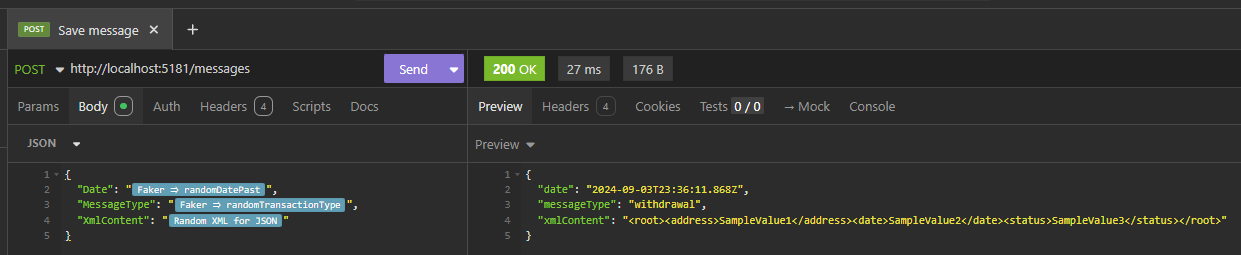
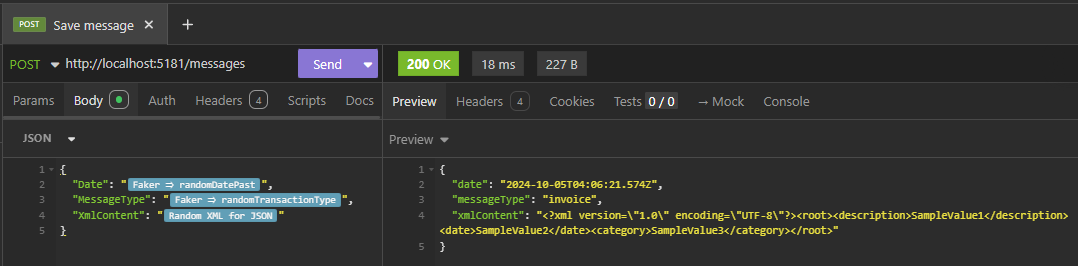
new img

diff --git a/main.js b/main.js
@@ -1,5 +1,6 @@
 function generateRandomXml({ rootElement, childCount }) {
-    let xml = `<${rootElement}>`;
+    let xml = `<?xml version=\"1.0\" encoding=\"UTF-8\"?>`;
+    xml += `<${rootElement}>`;
     const usedElements = new Set();
 
     for (let i = 0; i < childCount; i++) {
@@ -18,7 +19,9 @@ function generateRandomXml({ rootElement, childCount }) {
 
 const sampleElements = [
     'name', 'email', 'phone', 'address', 'city', 'state', 'country', 'zip', 'company', 'position',
-    'department', 'website', 'note', 'date', 'time', 'price', 'quantity', 'description', 'status'
+    'department', 'website', 'note', 'date', 'time', 'price', 'quantity', 'description', 'status',
+    'order', 'product', 'category', 'user', 'profile', 'settings', 'preferences', 'feedback', 'rating', 'review',
+    'transaction', 'payment', 'invoice', 'receipt', 'shipment', 'tracking', 'notification', 'alert', 'message', 'comment'
 ];
 
 function getRandomElement() {
@@ -39,7 +42,7 @@ module.exports.templateTags = [
             {
                 displayName: 'Number of Child Elements',
                 type: 'number',
-                defaultValue: 3,
+                defaultValue: 5,
             },
         ],
         async run(context, rootElement, childCount) {
